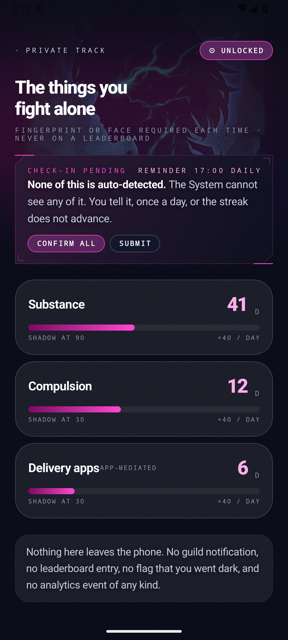
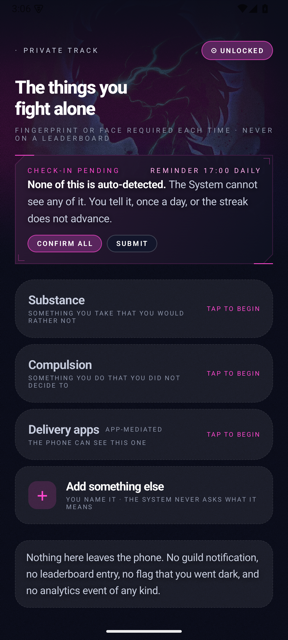
The private track is opt-in per item, and Coming Soon was wrong
Every tracked item now starts inactive and says "tap to begin", with an add row
underneath. §7 makes this track opt-in and skippable, and a screen that arrived
with items already running would have decided for the user what they are
fighting. Tapping one activates it and ticks.

Coming Soon listed four gates I made up. The real list is five with their
timing, which was in the design page's JavaScript: Aura Exchange Q1, Cloud Sync
Q4, iOS when Apple moves, Guild Wars Q1, Watch Face exploring. It also has a
notify block I had dropped entirely: one mail per launch, nothing else, ever.

The Summon screen no longer prints the referral link. Nobody types one, and
showing it invites the single flow that cannot be attributed. Share sheet or QR.

Screenshots regenerated.

diff --git a/app/src/main/kotlin/app/gakseong/ui/screens/Private.kt b/app/src/main/kotlin/app/gakseong/ui/screens/Private.kt
@@ -1,6 +1,15 @@
 package app.gakseong.ui.screens
 
+import androidx.compose.foundation.background
+import androidx.compose.foundation.clickable
 import androidx.compose.foundation.layout.Arrangement
+import androidx.compose.foundation.layout.Box
+import androidx.compose.foundation.layout.size
+import androidx.compose.foundation.shape.RoundedCornerShape
+import androidx.compose.runtime.mutableStateListOf
+import androidx.compose.runtime.remember
+import androidx.compose.ui.draw.clip
+import app.gakseong.ui.theme.pct
 import androidx.compose.foundation.layout.Column
 import androidx.compose.foundation.layout.Row
 import androidx.compose.foundation.layout.fillMaxWidth
@@ -34,6 +43,17 @@ fun PrivateScreen() {
     val p = LocalPalette.current
     val m = LocalMetrics.current
     val t = LocalType.current
+    val haptics = rememberHaptics()
+
+    // The shipped seed labels are not in this repo, per §7. These are the categories the decision record already
+    // names in public, and every one of them starts inactive.
+    val tracked = remember {
+        mutableStateListOf(
+            Tracked("Substance", "Something you take that you would rather not", shadowAt = 90),
+            Tracked("Compulsion", "Something you do that you did not decide to", shadowAt = 90),
+            Tracked("Delivery apps", "The phone can see this one", autoDetected = true, shadowAt = 30),
+        )
+    }
 
     Screen {
         Bg()
@@ -86,9 +106,46 @@ fun PrivateScreen() {
                 Modifier.weight(1f).verticalScroll(rememberScrollState()),
                 verticalArrangement = Arrangement.spacedBy(m.d(7.2)),
             ) {
-                Streak("Substance", 41, shadowAt = 90, fill = 0.46f)
-                Streak("Compulsion", 12, shadowAt = 30, fill = 0.40f)
-                Streak("Delivery apps", 6, shadowAt = 30, fill = 0.20f, autoDetected = true)
+                // Everything starts off. §7 makes this track opt-in and skippable, and a screen that arrives with
+                // items already running would have decided for the user what they are fighting.
+                tracked.forEachIndexed { i, item ->
+                    Streak(
+                        label = item.label,
+                        detail = item.detail,
+                        active = item.active,
+                        days = item.days,
+                        shadowAt = item.shadowAt,
+                        autoDetected = item.autoDetected,
+                        onToggle = {
+                            haptics.tick()
+                            tracked[i] = item.copy(active = !item.active)
+                        },
+                    )
+                }
+
+                Card(
+                    Modifier.fillMaxWidth().clickable { haptics.tick() },
+                    dashed = true,
+                    padding = 15.2,
+                ) {
+                    Row(verticalAlignment = Alignment.CenterVertically, horizontalArrangement = Arrangement.spacedBy(m.d(11.2))) {
+                        Box(
+                            Modifier
+                                .size(m.d(32))
+                                .clip(RoundedCornerShape(m.d(10)))
+                                .background(p.hot.pct(0.16f)),
+                            contentAlignment = Alignment.Center,
+                        ) {
+                            Text("＋", style = t.md.copy(fontSize = m.s(15.2), color = p.hot))
+                        }
+                        Column {
+                            Text("Add something else", style = t.questTitle.copy(fontSize = m.s(13.4)))
+                            Gap(2.9)
+                            Tag("You name it · the System never asks what it means", t.key)
+                        }
+                    }
+                }
+
                 Gap(4)
                 Card(Modifier.fillMaxWidth(), dashed = true, padding = 12.8) {
                     Text(
@@ -103,29 +160,70 @@ fun PrivateScreen() {
     }
 }
 
+/** One thing being tracked. Off until the user turns it on, which is the whole posture of §7. */
+private data class Tracked(
+    val label: String,
+    val detail: String,
+    val active: Boolean = false,
+    val days: Int = 0,
+    val shadowAt: Int = 30,
+    val autoDetected: Boolean = false,
+)
+
 @Composable
-private fun Streak(label: String, days: Int, shadowAt: Int, fill: Float, autoDetected: Boolean = false) {
+private fun Streak(
+    label: String,
+    detail: String,
+    active: Boolean,
+    days: Int,
+    shadowAt: Int,
+    autoDetected: Boolean,
+    onToggle: () -> Unit,
+) {
     val p = LocalPalette.current
     val m = LocalMetrics.current
     val t = LocalType.current
-    Card(Modifier.fillMaxWidth(), big = true, padding = 15.2) {
+    Card(
+        Modifier.fillMaxWidth().clickable(onClick = onToggle),
+        big = true,
+        lit = active,
+        dashed = !active,
+        padding = 15.2,
+    ) {
         Row(Modifier.fillMaxWidth(), verticalAlignment = Alignment.CenterVertically) {
-            Text(label, style = t.questTitle.copy(fontSize = m.s(14.1)))
-            if (autoDetected) {
-                GapW(6)
-                Tag("app-mediated", t.key.copy(color = p.faint))
+            Column(Modifier.weight(1f)) {
+                Row(verticalAlignment = Alignment.CenterVertically) {
+                    Text(
+                        label,
+                        style = t.questTitle.copy(
+                            fontSize = m.s(14.1),
+                            color = if (active) p.ink else p.dim,
+                        ),
+                    )
+                    if (autoDetected) {
+                        GapW(6)
+                        Tag("app-mediated", t.key.copy(color = p.faint))
+                    }
+                }
+                Gap(2.9)
+                Tag(detail, t.key)
             }
-            Filler()
-            Row(verticalAlignment = Alignment.Bottom) {
-                Text("$days", style = t.lg(22.4).copy(color = p.soft))
-                Tag(" d", t.tag)
+            if (active) {
+                Row(verticalAlignment = Alignment.Bottom) {
+                    Text("$days", style = t.lg(22.4).copy(color = p.soft))
+                    Tag(" d", t.tag)
+                }
+            } else {
+                Tag("tap to begin", t.key.copy(color = p.hot))
             }
         }
-        Gap(6)
-        Meter(fill = fill, height = 7)
-        Row(Modifier.fillMaxWidth(), horizontalArrangement = Arrangement.SpaceBetween) {
-            Tag("Shadow at $shadowAt", t.key)
-            Tag("+40 / day", t.key)
+        if (active) {
+            Gap(6)
+            Meter(fill = days.toFloat() / shadowAt, height = 7)
+            Row(Modifier.fillMaxWidth(), horizontalArrangement = Arrangement.SpaceBetween) {
+                Tag("Shadow at $shadowAt", t.key)
+                Tag("+40 / day", t.key)
+            }
         }
     }
 }

diff --git a/app/src/main/kotlin/app/gakseong/ui/screens/Soon.kt b/app/src/main/kotlin/app/gakseong/ui/screens/Soon.kt
@@ -1,7 +1,14 @@
 package app.gakseong.ui.screens
 
 import androidx.compose.foundation.layout.Arrangement
+import androidx.compose.foundation.background
+import androidx.compose.foundation.layout.Box
 import androidx.compose.foundation.layout.Column
+import androidx.compose.foundation.layout.size
+import androidx.compose.foundation.shape.RoundedCornerShape
+import androidx.compose.ui.draw.clip
+import androidx.compose.ui.graphics.Color
+import androidx.compose.ui.unit.em
 import androidx.compose.foundation.layout.Row
 import androidx.compose.foundation.layout.fillMaxWidth
 import androidx.compose.foundation.rememberScrollState
@@ -43,10 +50,34 @@ fun SoonScreen() {
                 Modifier.weight(1f).verticalScroll(rememberScrollState()),
                 verticalArrangement = Arrangement.spacedBy(m.d(5.4)),
             ) {
-                Sealed("Aura Exchange", "Banked aura buys art, sigils, themes and shadow skins. Cosmetics only, and never anything that touches a threshold, a shield or a rank.")
-                Sealed("Global ladder", "Opens when the population can fill it. A global ladder looks abandoned at low numbers, so leagues of thirty come first.")
-                Sealed("Containment", "Real blocking. Earned by repeated failure rather than switched on, because the permission it needs would kill installs on day one.")
-                Sealed("Dungeon parties", "More than two hunters against one objective. The two-person raid has to prove itself first.")
+                Sealed("◆", "Aura Exchange", "Q1",
+                    "Spend banked aura on art, sigils, themes and shadow skins. Cosmetics only, and nothing that " +
+                        "touches a threshold.")
+                Sealed("◈", "Cloud Sync", "Q4",
+                    "Your record survives a lost phone. Encrypted before it leaves, so the System still cannot " +
+                        "read your private track.")
+                Sealed("◍", "iOS", "when Apple moves",
+                    "Waiting on Apple. Screen Time hands back opaque tokens, so the leaderboard cannot exist " +
+                        "there yet.")
+                Sealed("❖", "Guild Wars", "Q1",
+                    "Two guilds, one week, aggregate thresholds. Your bad day costs thirty people.")
+                Sealed("◎", "Watch Face", "exploring",
+                    "Rank and today's band on the wrist. Nothing to open.")
+
+                Gap(4)
+                SystemWindow {
+                    Tag("Tell me when a gate opens", t.tag.copy(color = p.hot))
+                    Gap(4.8)
+                    Text("One mail per launch. Nothing else, ever.", style = t.body.copy(fontSize = m.s(12.2)))
+                    Gap(9.6)
+                    Card(Modifier.fillMaxWidth(), padding = 11.2) {
+                        Row(Modifier.fillMaxWidth(), verticalAlignment = Alignment.CenterVertically) {
+                            Tag("your@email", t.tag.copy(color = p.ghost, letterSpacing = 0.10.em))
+                            Filler()
+                            Pill("Notify me", on = true)
+                        }
+                    }
+                }
                 Gap(11.2)
             }
         }
@@ -54,18 +85,30 @@ fun SoonScreen() {
 }
 
 @Composable
-private fun Sealed(title: String, why: String) {
+private fun Sealed(glyph: String, title: String, when_: String, why: String) {
     val p = LocalPalette.current
     val m = LocalMetrics.current
     val t = LocalType.current
-    Card(Modifier.fillMaxWidth(), dashed = true, padding = 12.8) {
-        Row(Modifier.fillMaxWidth(), verticalAlignment = Alignment.CenterVertically, horizontalArrangement = Arrangement.spacedBy(m.d(8))) {
-            Text("◎", style = t.md.copy(fontSize = m.s(14.4), color = p.soft))
-            Text(title, style = t.questTitle.copy(fontSize = m.s(13.4)))
-            Filler()
-            Tag("sealed", t.key)
+    Card(Modifier.fillMaxWidth(), dashed = true, padding = 13.6) {
+        Row(horizontalArrangement = Arrangement.spacedBy(m.d(9.6))) {
+            Box(
+                Modifier
+                    .size(m.d(32))
+                    .clip(RoundedCornerShape(m.d(10)))
+                    .background(Color(0xFF12162B)),
+                contentAlignment = Alignment.Center,
+            ) {
+                Text(glyph, style = t.md.copy(fontSize = m.s(14.4), color = p.soft))
+            }
+            Column {
+                Row(Modifier.fillMaxWidth(), verticalAlignment = Alignment.CenterVertically) {
+                    Text(title, style = t.questTitle.copy(fontSize = m.s(14.1)))
+                    Filler()
+                    Tag(when_, t.key.copy(color = p.faint))
+                }
+                Gap(3.5)
+                Text(why, style = t.body.copy(fontSize = m.s(12)))
+            }
         }
-        Gap(4.8)
-        Text(why, style = t.body.copy(fontSize = m.s(11.8)))
     }
 }

diff --git a/app/src/main/kotlin/app/gakseong/ui/screens/Refer.kt b/app/src/main/kotlin/app/gakseong/ui/screens/Refer.kt
@@ -94,13 +94,19 @@ fun ReferScreen() {
                     )
                 }
 
+                // The link string itself is not on the screen. Nobody types a referral link, and showing it
+                // invites the one flow that cannot be attributed. Share sheet or QR, and that is the whole set.
                 Card(Modifier.fillMaxWidth(), big = true, padding = 14.4) {
-                    Tag("Your link", t.tag.copy(color = p.hot))
-                    Gap(5.6)
-                    Text("gakseong.app/s/M9K-4TQ2", style = t.questSub.copy(color = p.ink, fontSize = m.s(10.9)))
-                    Gap(9.6)
+                    Tag("Summon them", t.tag.copy(color = p.hot))
+                    Gap(4.8)
+                    Text(
+                        "The link carries who invited them. It works through the Play round-trip, so a fresh " +
+                            "install still pairs the two of you.",
+                        style = t.body.copy(fontSize = m.s(12.2)),
+                    )
+                    Gap(11.2)
                     Row(horizontalArrangement = Arrangement.spacedBy(m.d(5.4))) {
-                        Pill("Share", on = true); Pill("Copy"); Pill("QR")
+                        Pill("Share", on = true); Pill("QR")
                     }
                 }
 
